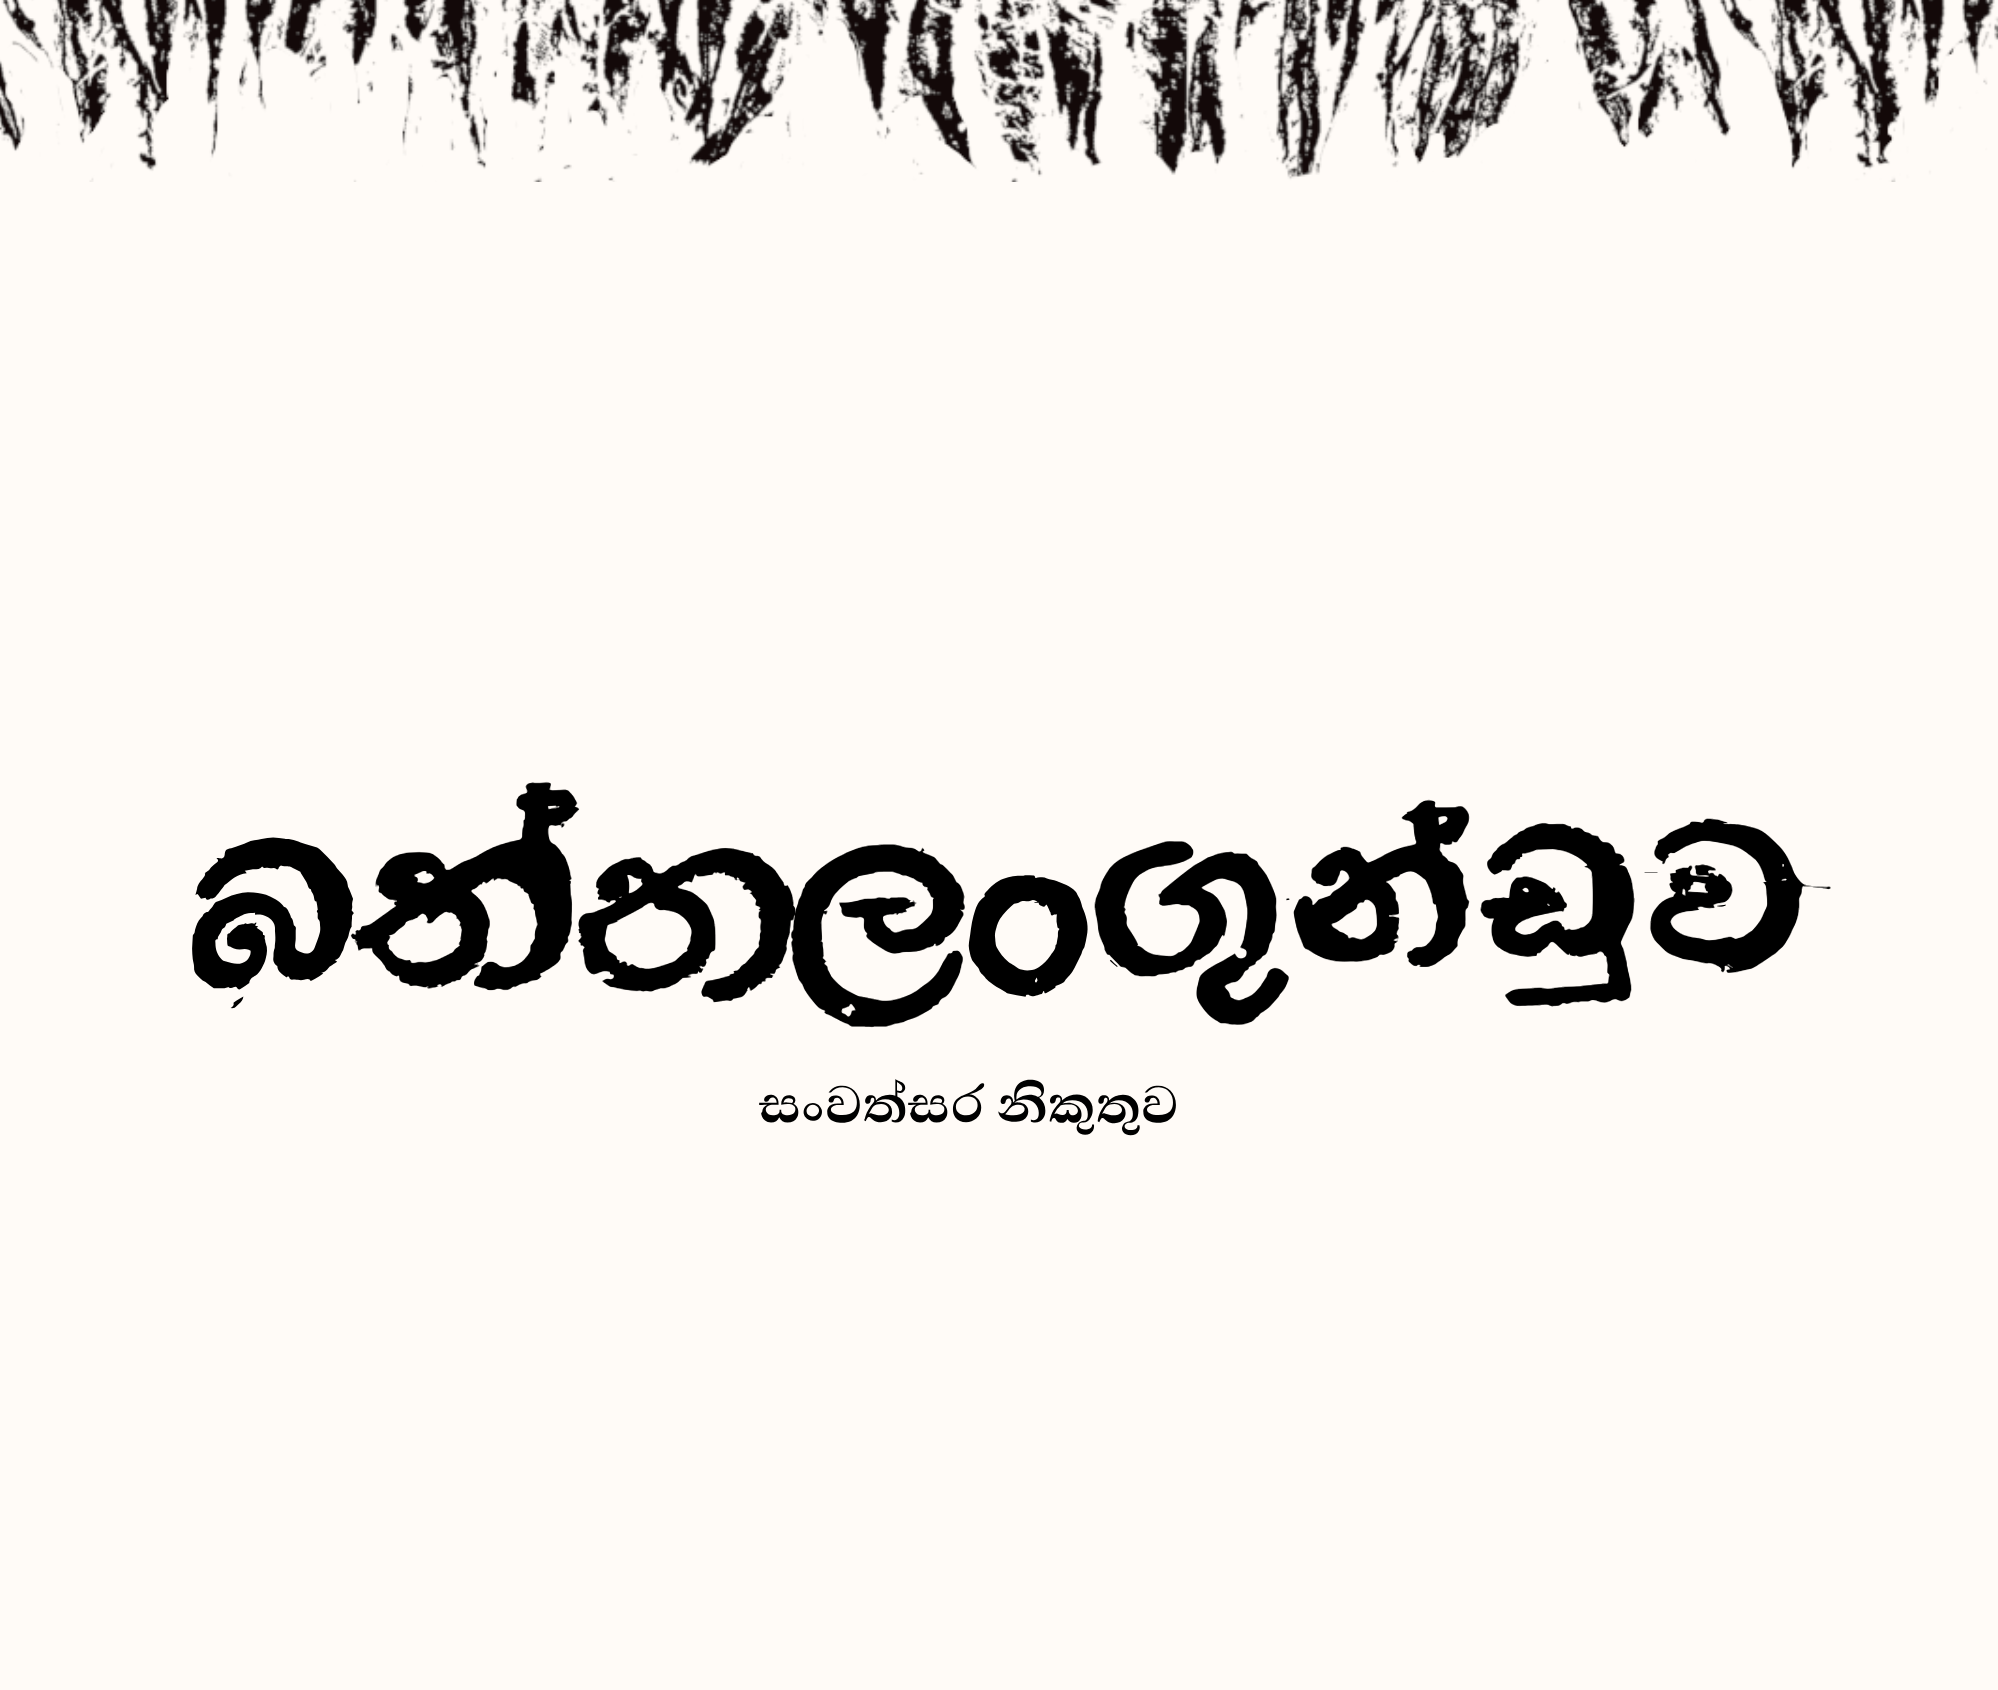
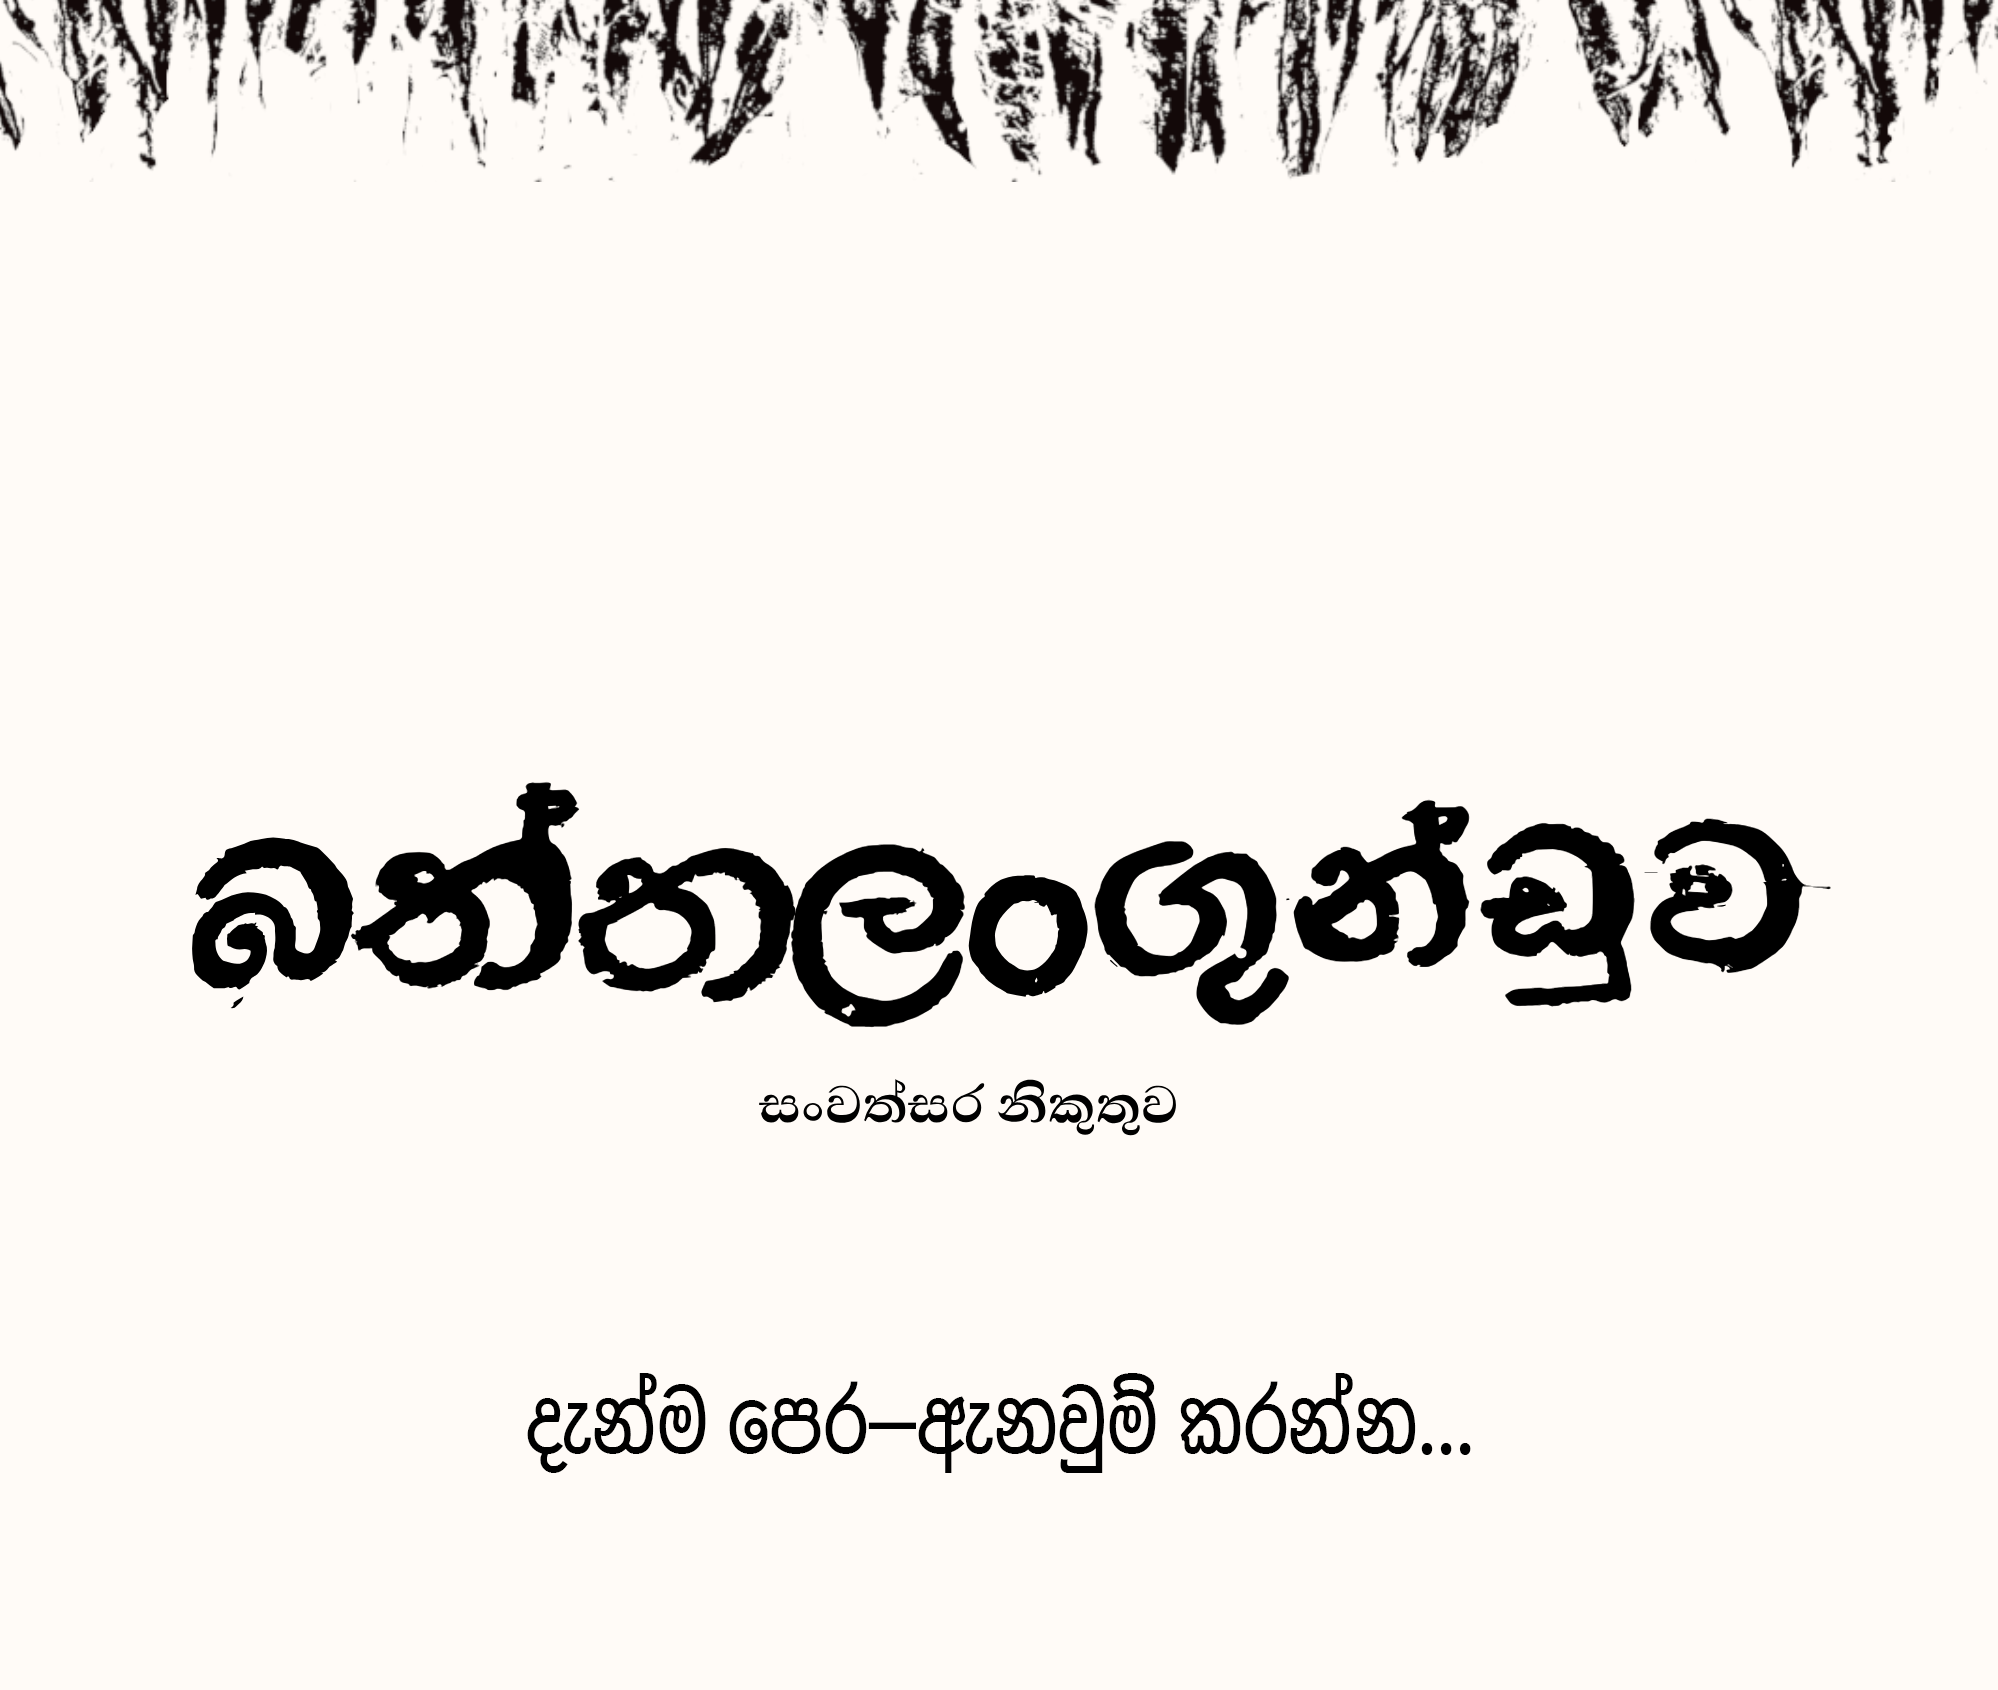
Housecleaning

Changed region(s): [[0.2482, 0.8, 0.7137, 0.8923]]

diff --git a/index.md b/index.md
@@ -12,8 +12,16 @@ layout: homepage
 ## මූනියැක් නිමවන සිංහල පොත්
 <br />
 
-<!--
-<span class="initials">මං</span>ජුල වෙඩිවර්ධනගේ ‘බත්තලංගුණ්ඩුව’ දශක පූර්ණ සංවත්සර සැමරුම (2007–2018) වෙනුවෙන් කෙරන විශේෂ මුද්රණය පිලිබඳව මේ තොරතුරු අප ඔබ හමුවේ තබන්නේ ඉමහත් උද්යෝගයෙන්. විශිෂ්ඨ සාහිත්යමය නිර්මාණයක් ලෙස පාඨක ඔබ අාදරයෙන් වැළඳගත් බත්තලංගුණ්ඩුව, එහි ප්රථම මුද්රණයෙන් දශකයක් ඉක්ම යන මොහොතේ තවත් ඔබට සමීප කරන්නයි මේ වෑයම. -->
+![](./images/gunduwa_promo.png)
+### [ බත්තලංගුණ්ඩුව - මංජුල වෙඩිවර්ධන - විශේෂ සංවත්සර නිකුතුව →](./gunduwa)  
+2019 | මූනියැක් ප්රකාශනයක්  
+
+<br />
+<br />
+
+
+***
+
 
 ![](./images/ahambu.jpg)
 ### ඒ අහඹු අතීත හැන්දෑව - මංජුල වෙඩිවර්ධන
@@ -31,36 +39,3 @@ layout: homepage
 ***
 
 [අපේ ඊළඟ පොත් නිර්මාණ ගැන දැනගන්න ->](http://mooniak.com/subscribe)
-
-
-
-- බත්තලංගුණ්ඩුව දශක සැමරුම් මුද්රණය යනු කුමක්ද?  
-    මංජුල වෙඩිවර්ධන විසින් රචිත ‘බත්තලංගුණ්ඩුව’ පොත ප්රථම වරට ප්රකාශනයට පත් වී වසර 10 ක් සපිරීම නිමිත්තෙන් ම්රදුණය කරනු ලබන විශේෂ, සීමිත මුද්රණය යි.
-
-- මෙම මුද්රණය විශේෂ වන්නේ ඇයි?  
-    මෙම සීමිත සැමරුම් මුද්රණයේ නිමැවුම සාමාන්ය පොතක ආකෘතියෙන් තරමක් ඔබ්බට ගොස් නිර්මාණශීලීව උසස් ප්රමිතියෙන් නිමවේ. ඒකේ සිට දෙසියයට අංකනය කොට, මංජුල වෙඩිවර්ධනගේ අත්සනින් යුතුව ඔබ අතට පත්වීමට නියමිත මෙම නිකුතුව යලි වරක් මුද්රණය නොකෙරේ. ඉතා සීමිත පිටපත් ප්රමාණයක් ඇනවුම් ප්රමාණයට පමණක් මුද්රණය කෙරෙන අතර විශේෂයෙන්ම පොත් එකතු කරන්නට උනන්දු ඔබට ඉතා අනගි අවස්ථාවකි.
-
-- පොතක මිල කීයද?  
-    බත්තලංගුණ්ඩුව දශක සැමරුම් විශේෂ මුද්රණයේ ඒක් පිටපතක මිල වන්නේ රු.2990ක් පමණි. මිල මේ උපරිමය තුල තබාගන්නට අපි උත්සහ කරන්නෙමු.
-
-- පොත් කීයක් මුද්රණය කරනවාද?  
-    ඉතා සීමිත දෙසීයක පෑමණ පොත් ප්රමාණයක් මුද්රණය කරන්නයි බලාපොරොත්තුව.
-
-- මට ඊළඟ මුද්රණයේදී මිලදී ගත හැකි ද?  
-    නැහැ. මෙම නිමාවෙන් යුතු නිකුතුව එක් වරක් පමණක් මේ සීමිත පිටපත් ප්රමාණය පමණක් මුද්රණය කෙරේ.
-
-- මේ තරම් මිල අධික ඇයි?  
-    මෙය ඉහලම නිමාවකින් සහ ඉතා ප්රවේසමෙන් කරන නිර්මාණයක්. පොත් එකතු කරන ඔබට වඩා මෙය ගැලපෙන්නේ. සාමාන්ය බත්තලංගුණ්ඩුව පොත් ඔබට පහසු මිලකට වෙළඳපොලේ දී ලබාගත හැකියි.  
-    මෙයින් ලැබෙන ලාභය සිංහල අක්ෂර රටා (ෆොන්ට්) නිර්මාණය සඳහා Fontlet අරමුදල ට යෙදවේ.
-
-- පොත මිල දී ගන්නේ කෙසේ ද?  
-    දැනට ඔබට පෙර-ඇනවුම් කිරීම සඳහා ලියාපදිංචි විය හැකිය. පෙර-ඇනවුම් කිරීම 2019 මාර්තු මස දී  ආරම්භ වන අතර ලියාපදිංචි වූ ඔබට මුලින්ම ඒ සඳහා අවස්තාව ලැබේ.  මුදල් ගෙවීමෙන් පසු  ඔබට ඔබේ පිටපත වෙන් කරවා ගත හැක.
-
-- පෙර-ඇනවුම් කරන්නේ කෙසේ ද?  
-    පෙර-ඇනවුම් කිරීම සඳහා මෙම සබැඳිය ට යන්න. අදාළ තොරතුරු අැතුළත් කිරීමෙන් පසුව මුදල් ගෙවිය යුතු අාකාරය පිළිබඳව උපදෙස් ඔබට ඊමේල් මගින් දැනුම් දෙනු අැති අතර මුදල් ගෙවා සම්පූර්ණ කළ පසු ඔබේ පිටපත වෙන් කරවා ගත හැක.
-
-- පොත ගෙන්වා ගන්නේ කෙසේ ද?  
-    ඔබට ඔබේ පිටපත නිවසටම ගෙන්වා ගැනීමට හෝ මූනියැක් කාර්යාලයට පැමිණ ලබා ගැනීමේ හැකියාව ඇත. පෙර-ඇනවුම් කිරීමේ දී ඔබට පොත ලබා ගැනීමට අවශ්ය ආකාරය සලකුණු කළ හැකි අතර නිවසටම ගෙන්වා ගැනීම සඳහා අදාළ තැපැල් ගාස්තු අය කෙරෙන බව කරුණාවෙන් සලකන්න.
-
-- පොත මුද්රණය කොට අවසන් වන්නේ කවදා ද?  
-    පොතේ මුද්රණ කටයුතු 2019 අප්රේල් මස නිම වීමට නියමිත අතර නිමාවෙන් පසු ඉතා ඉක්මනින් ඔබගේ ඇනවුම ඔබ වෙත ලබා දීමට අපි කටයුතු කරමු. ඒතෙක් පොතේ නිෂ්පාදන කටයුතු පිලිබඳව නවතම තොරතුරු පිලිබඳව ඊමේල් මගින් ඔබව දැනුවත් කරනු ඇත.
